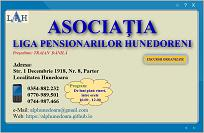
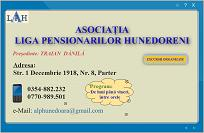
Add files via upload

Changed region(s): [[0.0294, 0.1203, 0.9706, 0.9023], [0.5882, 0.8421, 0.6471, 0.8722], [0.7647, 0.4211, 0.7941, 0.4511]]

diff --git a/index.html b/index.html
@@ -22,11 +22,10 @@
     span.text186Font1 { font-size:33px; font-family:"Times New Roman", serif; color:#010101; font-weight:bold; text-decoration:underline;}
     span.text186Font2 { font-size:33px; font-family:"Times New Roman", serif; color:#010101; font-weight:bold;}
     span.text186Font3 { font-size:17px; font-family:"Arial", sans-serif; color:#010101;}
-    span.text149Font1 { font-size:120px; font-family:"Times New Roman", serif; color:#0000c0; font-weight:bold;}
-    span.text149Font2 { font-size:120px; font-family:"Times New Roman", serif; color:#0000c0; font-weight:bold;}
-    span.text149Font4 { font-size:120px; font-family:"Times New Roman", serif; color:#000000;}
-    span.text149Font5 { font-size:60px; font-family:"Times New Roman", serif; color:#0000c0; font-weight:bold;}
-    span.text149Font6 { font-size:60px; font-family:"Arial", sans-serif; color:#000000; font-weight:bold;}
+    span.text149Font1 { font-size:47px; font-family:"Times New Roman", serif; color:#0000c0; font-weight:bold;}
+    span.text149Font2 { font-size:47px; font-family:"Times New Roman", serif; color:#0000c0; font-weight:bold;}
+    span.text149Font4 { font-size:47px; font-family:"Times New Roman", serif; color:#000000;}
+    span.text149Font5 { font-size:47px; font-family:"Arial", sans-serif; color:#000000; font-weight:bold;}
     span.text284Font1 { font-size:27px; font-family:"Times New Roman", serif; color:#38761d; font-weight:bold;}
     span.text284Font2 { font-size:17px; font-family:"Arial", sans-serif; color:#000000;}
     span.text284Font3 { font-size:23px; font-family:"Times New Roman", serif; color:#0000c0; font-weight:bold;}
@@ -470,22 +469,22 @@ image358.addBorder(0)
 image358.addOpacity(100)
 image358.build()
 
-text315 = new ObjText('text315',null,64,533,407,64,1,12,null,'div')
+text315 = new ObjText('text315',null,64,533,567,43,1,12,null,'div')
 text315.initSLine(0)
 text315.initRotateAngle(0,0,0)
 text315.initHasOuterShadow(0)
 text315.initHasTextShadow(0)
 text315.initHasBorder(0)
 text315.initHasOutline(0)
-text315.addIe8Attr(64, 533, 407, 64, 0, 0)
+text315.addIe8Attr(64, 533, 567, 43, 0, 0)
 text315.addOpacity(100)
 text315.build()
 
-shape258 = new ObjImage('shape258','images/shape258.png','Cloud',316,388,240,139,1,13,'div')
+shape258 = new ObjImage('shape258','images/shape258.png','Cloud',420,388,240,139,1,13,'div')
 shape258.initRotateAngle(0,0,0,-2,-2,237,135)
 shape258.initHasShadow(0)
 shape258.initHasReflection(0)
-shape258.addIe8Attr(316, 388, 240, 139, 0, 0)
+shape258.addIe8Attr(420, 388, 240, 139, 0, 0)
 shape258.initImageMap(1,'216,49,210,48,204,48,197,48,191,49,191,49,196,48,202,48,207,48,212,49,221,51,225,53,229,55,233,57,235,60,237,63,238,66,239,69,239,72,238,75,236,78,234,81,231,83,227,86,223,88,214,90,209,91,203,91,210,91,216,90,217,92,218,95,219,98,219,101,219,104,218,106,216,109,214,112,209,116,203,119,196,120,189,120,181,118,175,115,171,111,169,108,168,105,170,110,174,114,179,117,184,119,187,121,188,123,189,125,188,127,186,129,184,131,180,133,176,135,171,136,166,137,154,137,143,136,137,135,133,134,129,132,126,130,124,128,122,126,122,124,123,122,125,120,128,118,126,120,124,121,123,123,122,125,122,127,121,128,120,129,118,130,113,133,107,134,100,134,92,134,86,133,80,131,78,130,77,129,76,127,75,126,75,124,75,123,76,122,78,120,82,118,85,116,88,114,88,111,88,113,86,115,84,117,81,119,77,121,73,122,68,123,63,123,53,123,48,122,43,121,40,120,36,118,34,116,32,114,31,112,32,109,33,107,35,105,37,103,41,102,45,101,50,100,43,101,38,103,31,104,24,103,17,101,12,98,10,96,8,94,6,92,6,89,5,87,5,85,6,82,7,80,11,76,16,72,22,70,29,69,22,70,16,72,14,72,12,71,9,70,7,68,4,63,2,57,2,50,3,44,6,39,8,37,10,35,12,34,14,33,17,33,19,33,21,34,23,36,25,38,27,40,25,38,23,36,21,34,19,33,21,30,24,27,28,24,33,21,38,19,43,17,49,16,55,16,61,16,67,16,73,17,79,19,84,21,88,23,92,26,96,29,93,26,89,23,85,21,80,19,81,17,82,14,83,12,86,9,89,7,92,6,97,4,101,3,111,2,121,2,130,4,134,5,137,7,141,9,143,11,145,14,146,16,147,19,146,22,145,24,143,27,146,23,146,20,146,16,145,13,147,12,151,10,155,9,159,8,170,7,181,7,192,8,197,8,202,9,206,10,210,11,213,13,215,14,216,16,217,18,216,19,215,21,213,22,211,24,207,25,203,26,207,25,210,24,213,24,217,24,220,25,223,26,225,28,227,30,229,32,229,34,230,37,229,40,228,42,227,44,224,46,222,47,219,49,216,49','M 216 49 L 210 48 L 204 48 L 197 48 L 191 49 L 191 49 L 196 48 L 202 48 L 207 48 L 212 49 L 221 51 L 225 53 L 229 55 L 233 57 L 235 60 L 237 63 L 238 66 L 239 69 L 239 72 L 238 75 L 236 78 L 234 81 L 231 83 L 227 86 L 223 88 L 214 90 L 209 91 L 203 91 L 210 91 L 216 90 L 217 92 L 218 95 L 219 98 L 219 101 L 219 104 L 218 106 L 216 109 L 214 112 L 209 116 L 203 119 L 196 120 L 189 120 L 181 118 L 175 115 L 171 111 L 169 108 L 168 105 L 170 110 L 174 114 L 179 117 L 184 119 L 187 121 L 188 123 L 189 125 L 188 127 L 186 129 L 184 131 L 180 133 L 176 135 L 171 136 L 166 137 L 154 137 L 143 136 L 137 135 L 133 134 L 129 132 L 126 130 L 124 128 L 122 126 L 122 124 L 123 122 L 125 120 L 128 118 L 126 120 L 124 121 L 123 123 L 122 125 L 122 127 L 121 128 L 120 129 L 118 130 L 113 133 L 107 134 L 100 134 L 92 134 L 86 133 L 80 131 L 78 130 L 77 129 L 76 127 L 75 126 L 75 124 L 75 123 L 76 122 L 78 120 L 82 118 L 85 116 L 88 114 L 88 111 L 88 113 L 86 115 L 84 117 L 81 119 L 77 121 L 73 122 L 68 123 L 63 123 L 53 123 L 48 122 L 43 121 L 40 120 L 36 118 L 34 116 L 32 114 L 31 112 L 32 109 L 33 107 L 35 105 L 37 103 L 41 102 L 45 101 L 50 100 L 43 101 L 38 103 L 31 104 L 24 103 L 17 101 L 12 98 L 10 96 L 8 94 L 6 92 L 6 89 L 5 87 L 5 85 L 6 82 L 7 80 L 11 76 L 16 72 L 22 70 L 29 69 L 22 70 L 16 72 L 14 72 L 12 71 L 9 70 L 7 68 L 4 63 L 2 57 L 2 50 L 3 44 L 6 39 L 8 37 L 10 35 L 12 34 L 14 33 L 17 33 L 19 33 L 21 34 L 23 36 L 25 38 L 27 40 L 25 38 L 23 36 L 21 34 L 19 33 L 21 30 L 24 27 L 28 24 L 33 21 L 38 19 L 43 17 L 49 16 L 55 16 L 61 16 L 67 16 L 73 17 L 79 19 L 84 21 L 88 23 L 92 26 L 96 29 L 93 26 L 89 23 L 85 21 L 80 19 L 81 17 L 82 14 L 83 12 L 86 9 L 89 7 L 92 6 L 97 4 L 101 3 L 111 2 L 121 2 L 130 4 L 134 5 L 137 7 L 141 9 L 143 11 L 145 14 L 146 16 L 147 19 L 146 22 L 145 24 L 143 27 L 146 23 L 146 20 L 146 16 L 145 13 L 147 12 L 151 10 L 155 9 L 159 8 L 170 7 L 181 7 L 192 8 L 197 8 L 202 9 L 206 10 L 210 11 L 213 13 L 215 14 L 216 16 L 217 18 L 216 19 L 215 21 L 213 22 L 211 24 L 207 25 L 203 26 L 207 25 L 210 24 L 213 24 L 217 24 L 220 25 L 223 26 L 225 28 L 227 30 L 229 32 L 229 34 L 230 37 L 229 40 L 228 42 L 227 44 L 224 46 L 222 47 L 219 49 L 216 49 z')
 shape258.addBorder(0)
 shape258.addOpacity(100)
@@ -512,48 +511,48 @@ text230.addIe8Attr(135, 425, 196, 97, 0, 0)
 text230.addOpacity(100)
 text230.build()
 
-text186 = new ObjText('text186',null,65,306,431,105,1,16,null,'div')
+text186 = new ObjText('text186',null,65,306,567,105,1,16,null,'div')
 text186.initSLine(0)
 text186.initRotateAngle(0,0,0)
 text186.initHasOuterShadow(0)
 text186.initHasTextShadow(0)
 text186.initHasBorder(0)
 text186.initHasOutline(0)
-text186.addIe8Attr(65, 306, 431, 105, 0, 0)
+text186.addIe8Attr(65, 306, 567, 105, 0, 0)
 text186.addOpacity(100)
 text186.build()
 
-text149 = new ObjText('text149',null,46,78,919,178,1,17,null,'div')
+text149 = new ObjText('text149',null,45,121,919,115,1,17,null,'div')
 text149.initSLine(0)
 text149.initRotateAngle(0,0,0)
 text149.initHasOuterShadow(0)
 text149.initHasTextShadow(1)
 text149.initHasBorder(0)
 text149.initHasOutline(0)
-text149.addIe8Attr(46, 78, 919, 178, 0, 0)
+text149.addIe8Attr(45, 121, 919, 115, 0, 0)
 text149.addTextShadow(315,8,0.900000,'0','0','0',0,0,0,8.000000,3)
 text149.addOpacity(100)
 text149.build()
 
-text284 = new ObjText('text284',null,345,416,200,95,1,18,null,'div')
+text284 = new ObjText('text284',null,444,414,200,95,1,18,null,'div')
 text284.initSLine(0)
 text284.initRotateAngle(0,0,0)
 text284.initHasOuterShadow(0)
 text284.initHasTextShadow(0)
 text284.initHasBorder(0)
 text284.initHasOutline(0)
-text284.addIe8Attr(345, 416, 200, 95, 0, 0)
+text284.addIe8Attr(444, 414, 200, 95, 0, 0)
 text284.addOpacity(100)
 text284.build()
 
-text1164 = new ObjText('text1164',null,63,251,296,27,1,19,null,'div')
-text1164.initSLine(0)
+text1164 = new ObjText('text1164',null,63,251,442,44,1,19,null,'div')
+text1164.initSLine(1)
 text1164.initRotateAngle(0,0,0)
 text1164.initHasOuterShadow(0)
 text1164.initHasTextShadow(0)
 text1164.initHasBorder(0)
 text1164.initHasOutline(0)
-text1164.addIe8Attr(63, 251, 296, 27, 0, 0)
+text1164.addIe8Attr(63, 251, 442, 44, 0, 0)
 text1164.addOpacity(100)
 text1164.build()
 
@@ -626,12 +625,10 @@ if( is.min ){
 
 <div id="text315"><a id="text315anc" style="display:block;height:0px;width:0px;"></a>
 <p  legLH="1.149" style="margin-left:0px;text-indent:0px;line-height:1.149;margin-top:0px;margin-bottom:0px;text-align:left;" >
-<span class="text315Font1"  >e-Mail: 
-</span ><span class="text315Font2"  >alphunedoara</span ><span class="text315Font3"  >@</span ><span class="text315Font2"  >gmail.com</span ><span class="text315Font3" style="background-color:transparent" >
+<span class="text315Font1"  >e-Mail: </span ><span class="text315Font2"  >alphunedoara</span ><span class="text315Font3"  >@</span ><span class="text315Font2"  >gmail.com</span ><span class="text315Font3" style="background-color:transparent" >
 </span ></p >
-<p  legLH="1.149" style="margin-left:0px;text-indent:0px;line-height:1.149;margin-top:0px;margin-bottom:0px;text-align:left;" >
-<span class="text315Font4"  >Web:</span ><span class="text315Font3"  > 
-https://alphunedoara.github.io</span ><span class="text315Font5" style="background-color:transparent" >
+<p  style="margin-left:0px;text-indent:0px;margin-top:0px;margin-bottom:0px;text-align:left;" >
+<span class="text315Font4"  >Web:</span ><span class="text315Font3"  > https://alphunedoara.github.io</span ><span class="text315Font5" style="background-color:transparent" >
 </span ></p >
 </div>
 
@@ -659,8 +656,7 @@ if( is.min ){
 <span class="text186Font1"  >Adresa</span ><span class="text186Font2"  >:
 </span ></p >
 <p  legLH="1.149" style="margin-left:0px;text-indent:0px;line-height:1.149;margin-top:0px;margin-bottom:0px;text-align:left;" >
-<span class="text186Font2"  >Str. 1 Decembrie 1918, Nr. 8, 
-Parter
+<span class="text186Font2"  >Str. 1 Decembrie 1918, Nr. 8, Parter
 </span ></p >
 <p  style="margin-left:0px;text-indent:0px;margin-top:0px;margin-bottom:0px;text-align:left;" >
 <span class="text186Font2"  >Localitatea Hunedoara</span ><span class="text186Font3" style="background-color:transparent" >
@@ -668,12 +664,11 @@ Parter
 </div>
 
 <div id="text149"><a id="text149anc" style="display:block;height:0px;width:0px;"></a>
-<p  legLH="1.146" style="margin-left:0px;text-indent:0px;line-height:1.146;margin-top:0px;margin-bottom:0px;text-align:center;" >
+<p  legLH="1.138" style="margin-left:0px;text-indent:0px;line-height:1.138;margin-top:0px;margin-bottom:0px;text-align:center;" >
 <span class="text149Font1"  >ASOCIA</span ><span class="text149Font2"  >ŢIA</span ><span class="text149Font4" style="background-color:transparent" >
 </span ></p >
-<p  legLH="1.145" style="margin-left:0px;text-indent:0px;line-height:1.145;margin-top:0px;margin-bottom:0px;text-align:center;" >
-<span class="text149Font5"  >LIGA PENSIONARILOR 
-HUNEDORENI</span ><span class="text149Font6" style="background-color:transparent" >
+<p  style="margin-left:0px;text-indent:0px;margin-top:0px;margin-bottom:0px;text-align:center;" >
+<span class="text149Font1"  >LIGA PENSIONARILOR HUNEDORENI</span ><span class="text149Font5" style="background-color:transparent" >
 </span ></p >
 </div>
 
@@ -691,9 +686,8 @@ HUNEDORENI</span ><span class="text149Font6" style="background-color:transparent
 </div>
 
 <div id="text1164"><a id="text1164anc" style="display:block;height:0px;width:0px;"></a>
-<p  legLH="1.192" style="margin-left:0px;text-indent:0px;line-height:1.192;margin-top:0px;margin-bottom:0px;text-align:left;" >
-<span class="text1164Font1"  >Pre</span ><span class="text1164Font2"  >şedinte: TRAIAN &nbsp;
-DĂNILĂ</span ><span class="text1164Font4" style="background-color:transparent" >
+<p  style="margin-left:0px;text-indent:0px;margin-top:0px;margin-bottom:0px;text-align:left;" >
+<span class="text1164Font1"  >Pre</span ><span class="text1164Font2"  >şedinte: TRAIAN &nbsp;DĂNILĂ</span ><span class="text1164Font4" style="background-color:transparent" >
 </span ></p >
 </div>
 

diff --git a/excursii_startexcursii.html b/excursii_startexcursii.html
@@ -11,8 +11,8 @@
 <link rel="stylesheet" href="trivantis.css" type="text/css" />
 <style type="text/css">
   body { background-color:#e6e6e6; }
-    span.text4476Font1 { font-size:80px; font-family:"Times New Roman", serif; color:#0000c0; font-weight:bold;}
-    span.text4476Font2 { font-size:17px; font-family:"Arial", sans-serif; color:#010101;}
+    span.text4476Font1 { font-size:60px; font-family:"Times New Roman", serif; color:#0000c0; font-weight:bold;}
+    span.text4476Font2 { font-size:60px; font-family:"Arial", sans-serif; color:#000000;}
 </style>
 
 <!--[if lt IE 7]>
@@ -604,14 +604,14 @@ shape4649.hasOnUp = true
 shape4649.capture=4
 shape4649.build()
 
-text4476 = new ObjText('text4476',null,132,53,792,79,1,17,null,'div')
-text4476.initSLine(0)
+text4476 = new ObjText('text4476',null,132,53,792,68,1,17,null,'div')
+text4476.initSLine(1)
 text4476.initRotateAngle(0,0,0)
 text4476.initHasOuterShadow(0)
 text4476.initHasTextShadow(1)
 text4476.initHasBorder(0)
 text4476.initHasOutline(0)
-text4476.addIe8Attr(132, 53, 792, 79, 0, 0)
+text4476.addIe8Attr(132, 53, 792, 68, 0, 0)
 text4476.addTextShadow(315,8,0.900000,'0','0','0',0,0,0,5.000000,3)
 text4476.addOpacity(100)
 text4476.build()
@@ -687,9 +687,8 @@ if( is.min ){
 </script>
 
 <div id="text4476"><a id="text4476anc" style="display:block;height:0px;width:0px;"></a>
-<p  legLH="1.155" style="margin-left:0px;text-indent:0px;line-height:1.155;margin-top:0px;margin-bottom:0px;text-align:left;" >
-<span class="text4476Font1"  >EXCURSII 
-ORGANIZATE</span ><span class="text4476Font2" style="background-color:transparent" >
+<p  style="margin-left:0px;text-indent:0px;margin-top:0px;margin-bottom:0px;text-align:left;" >
+<span class="text4476Font1"  >EXCURSII ORGANIZATE</span ><span class="text4476Font2" style="background-color:transparent" >
 </span ></p >
 </div>
 
